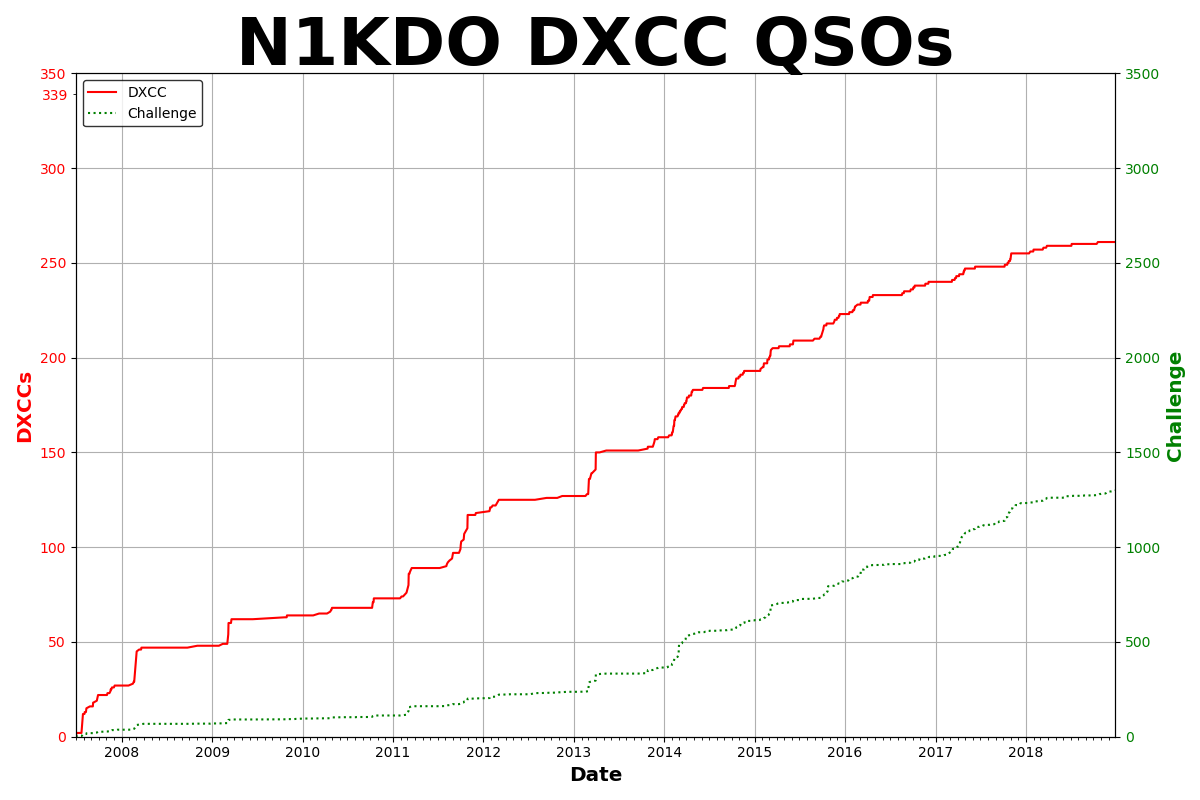
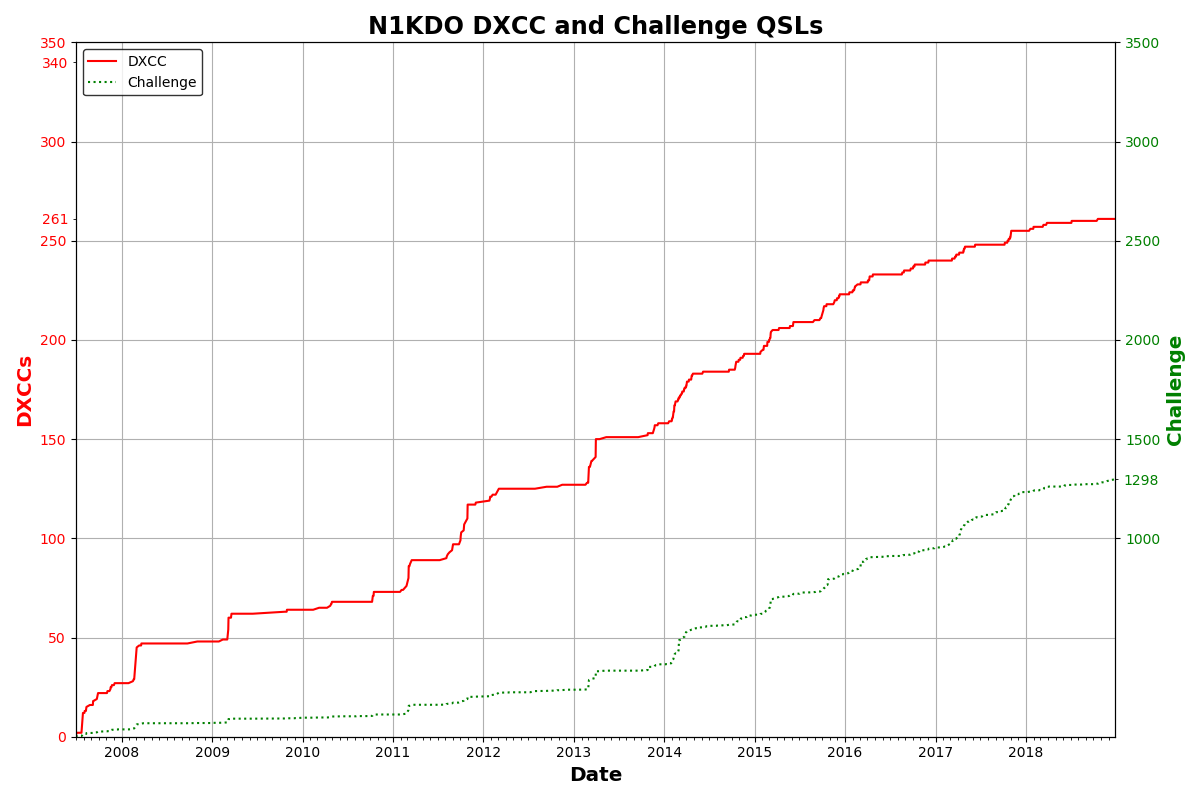
more tweaking

diff --git a/qso_charts.py b/qso_charts.py
@@ -115,7 +115,7 @@ def plot_qsos_by_date(date_records, title, filename=None, start_date=None, end_d
 
     ax = fig.add_subplot(111, facecolor=BG)
 
-    ax.set_title(title, color=FG, size=48, weight='bold')
+    ax.set_title(title, color=FG, size='xx-large', weight='bold')
 
     dates = matplotlib.dates.date2num(dates)
     colors = ['#ffff00', '#ff9933', '#cc6600', '#660000']
@@ -135,7 +135,7 @@ def plot_qsos_by_date(date_records, title, filename=None, start_date=None, end_d
     ax.spines['right'].set_color(FG)
     ax.spines['bottom'].set_color(FG)
     ax.spines['top'].set_color(FG)
-    ax.tick_params(axis='y', colors=FG, which='both', direction='out')
+    ax.tick_params(axis='y', colors=FG, which='both', direction='out', left=True, right=True)
     ax.tick_params(axis='x', colors=FG, which='both', direction='out', top=False)
     ax.set_ylabel('QSOS', color=FG, size='x-large', weight='bold')
     ax.set_xlabel('Year', color=FG, size='x-large', weight='bold')
@@ -180,7 +180,7 @@ def plot_dxcc_qsos(date_records, title, filename=None, start_date=None, end_date
     ax = fig.add_subplot(111, facecolor=BG)
 
     axb = ax.twinx()
-    ax.set_title(title, color=FG, size=48, weight='bold')
+    ax.set_title(title, color=FG, size='xx-large', weight='bold')
 
     dates = matplotlib.dates.date2num(dates)
     if start_date is None:
@@ -201,14 +201,21 @@ def plot_dxcc_qsos(date_records, title, filename=None, start_date=None, end_date
                          mew=0, markersize=5, label='Challenge')
     ax.grid(True)
 
-    ax.set_yticks([0, 50, 100, 150, 200, 250, 300, 350])
-    ax.set_yticks([339], minor=True)
+    yticks = [0, 50, 100, 150, 200, 250, 300, 350]
+    # yticks.append(total_dxcc_data[-1])
+    ax.set_yticks(yticks)
+    minor_ticks = [340,total_dxcc_data[-1]]
+    ax.set_yticks(minor_ticks, minor=True)  # current number of dxcc entities
     ax.yaxis.set_minor_formatter(FormatStrFormatter('%d'))
 
     ax.tick_params(axis='y', colors=FG, which='both', direction='out', right=False, labelcolor='r')
     ax.tick_params(axis='x', colors=FG, which='both', direction='out', top=False)
     ax.set_ylabel('DXCCs', color='r', size='x-large', weight='bold')
     axb.set_ylabel('Challenge', color='g', size='x-large', weight='bold')
+    challenge_ticks = [1000, 1500, 2000, 2500, 3000, 3500]
+    axb.set_yticks(challenge_ticks)
+    axb.set_yticks([total_challenge_data[-1]], minor=True)
+    axb.yaxis.set_minor_formatter(FormatStrFormatter('%d'))
     axb.tick_params(axis='y', colors=FG, which='both', direction='out', left=False, labelcolor='g')
     ax.set_xlabel('Date', color=FG, size='x-large', weight='bold')
 

diff --git a/lotw-qso-analyzer.py b/lotw-qso-analyzer.py
@@ -278,7 +278,7 @@ def draw_charts(date_records, callsign, start_date=None, end_date=None):
                                  callsign + '_qsos_by_date.png',
                                  start_date=start_date,
                                  end_date=end_date)
-    qso_charts.plot_dxcc_qsos(date_records, callsign + ' DXCC QSOs',
+    qso_charts.plot_dxcc_qsos(date_records, callsign + ' DXCC and Challenge QSLs',
                               callsign + '_dxcc_qsos.png', start_date=start_date,
                               end_date=end_date)
     qso_charts.plot_qsos_rate(date_records, callsign + ' QSO Rate',
